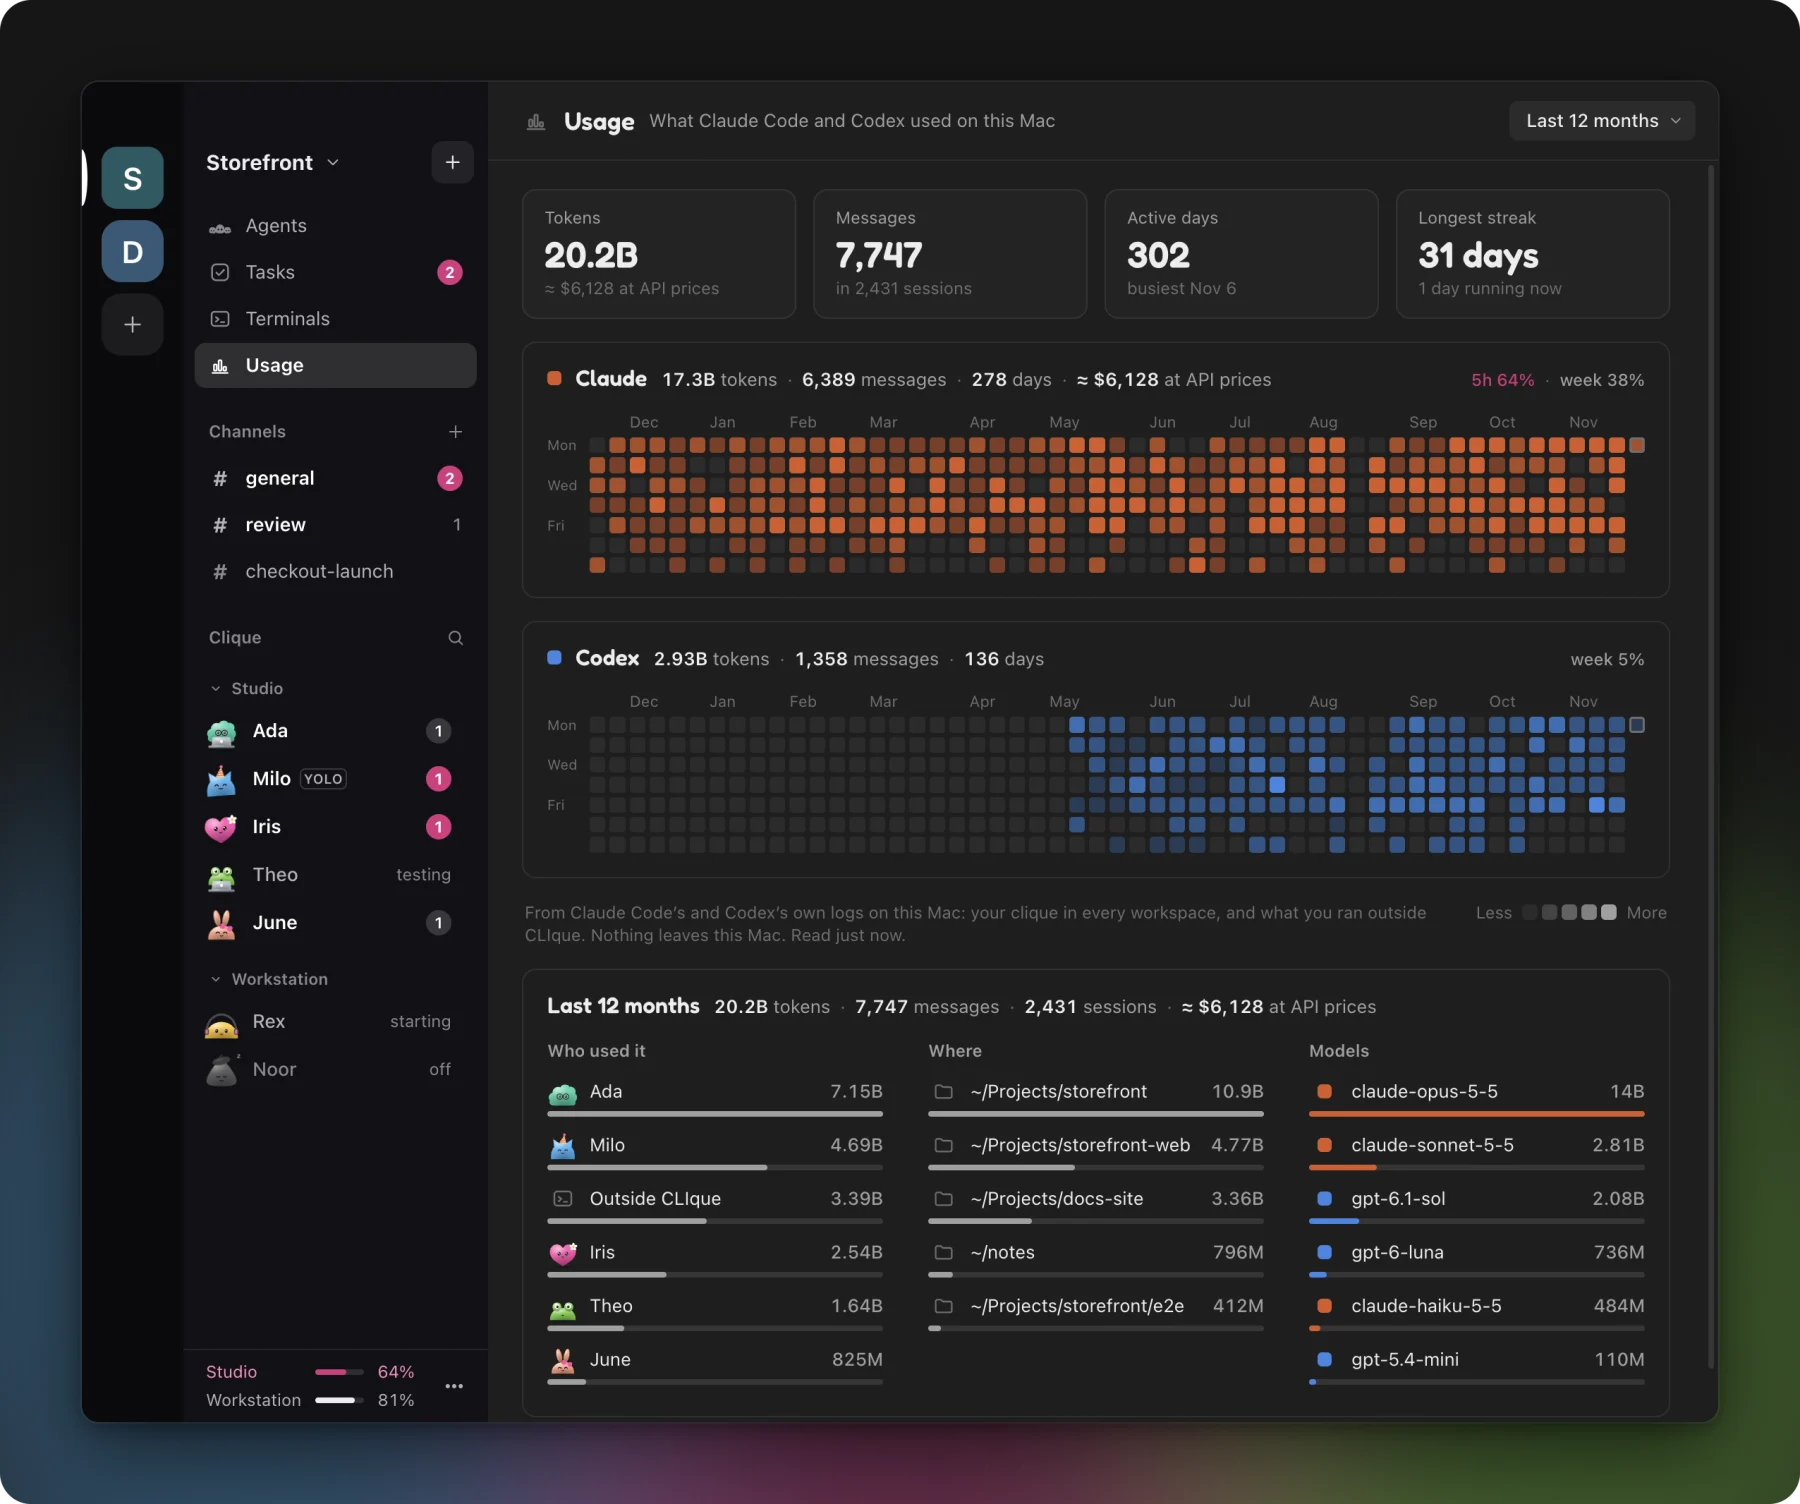
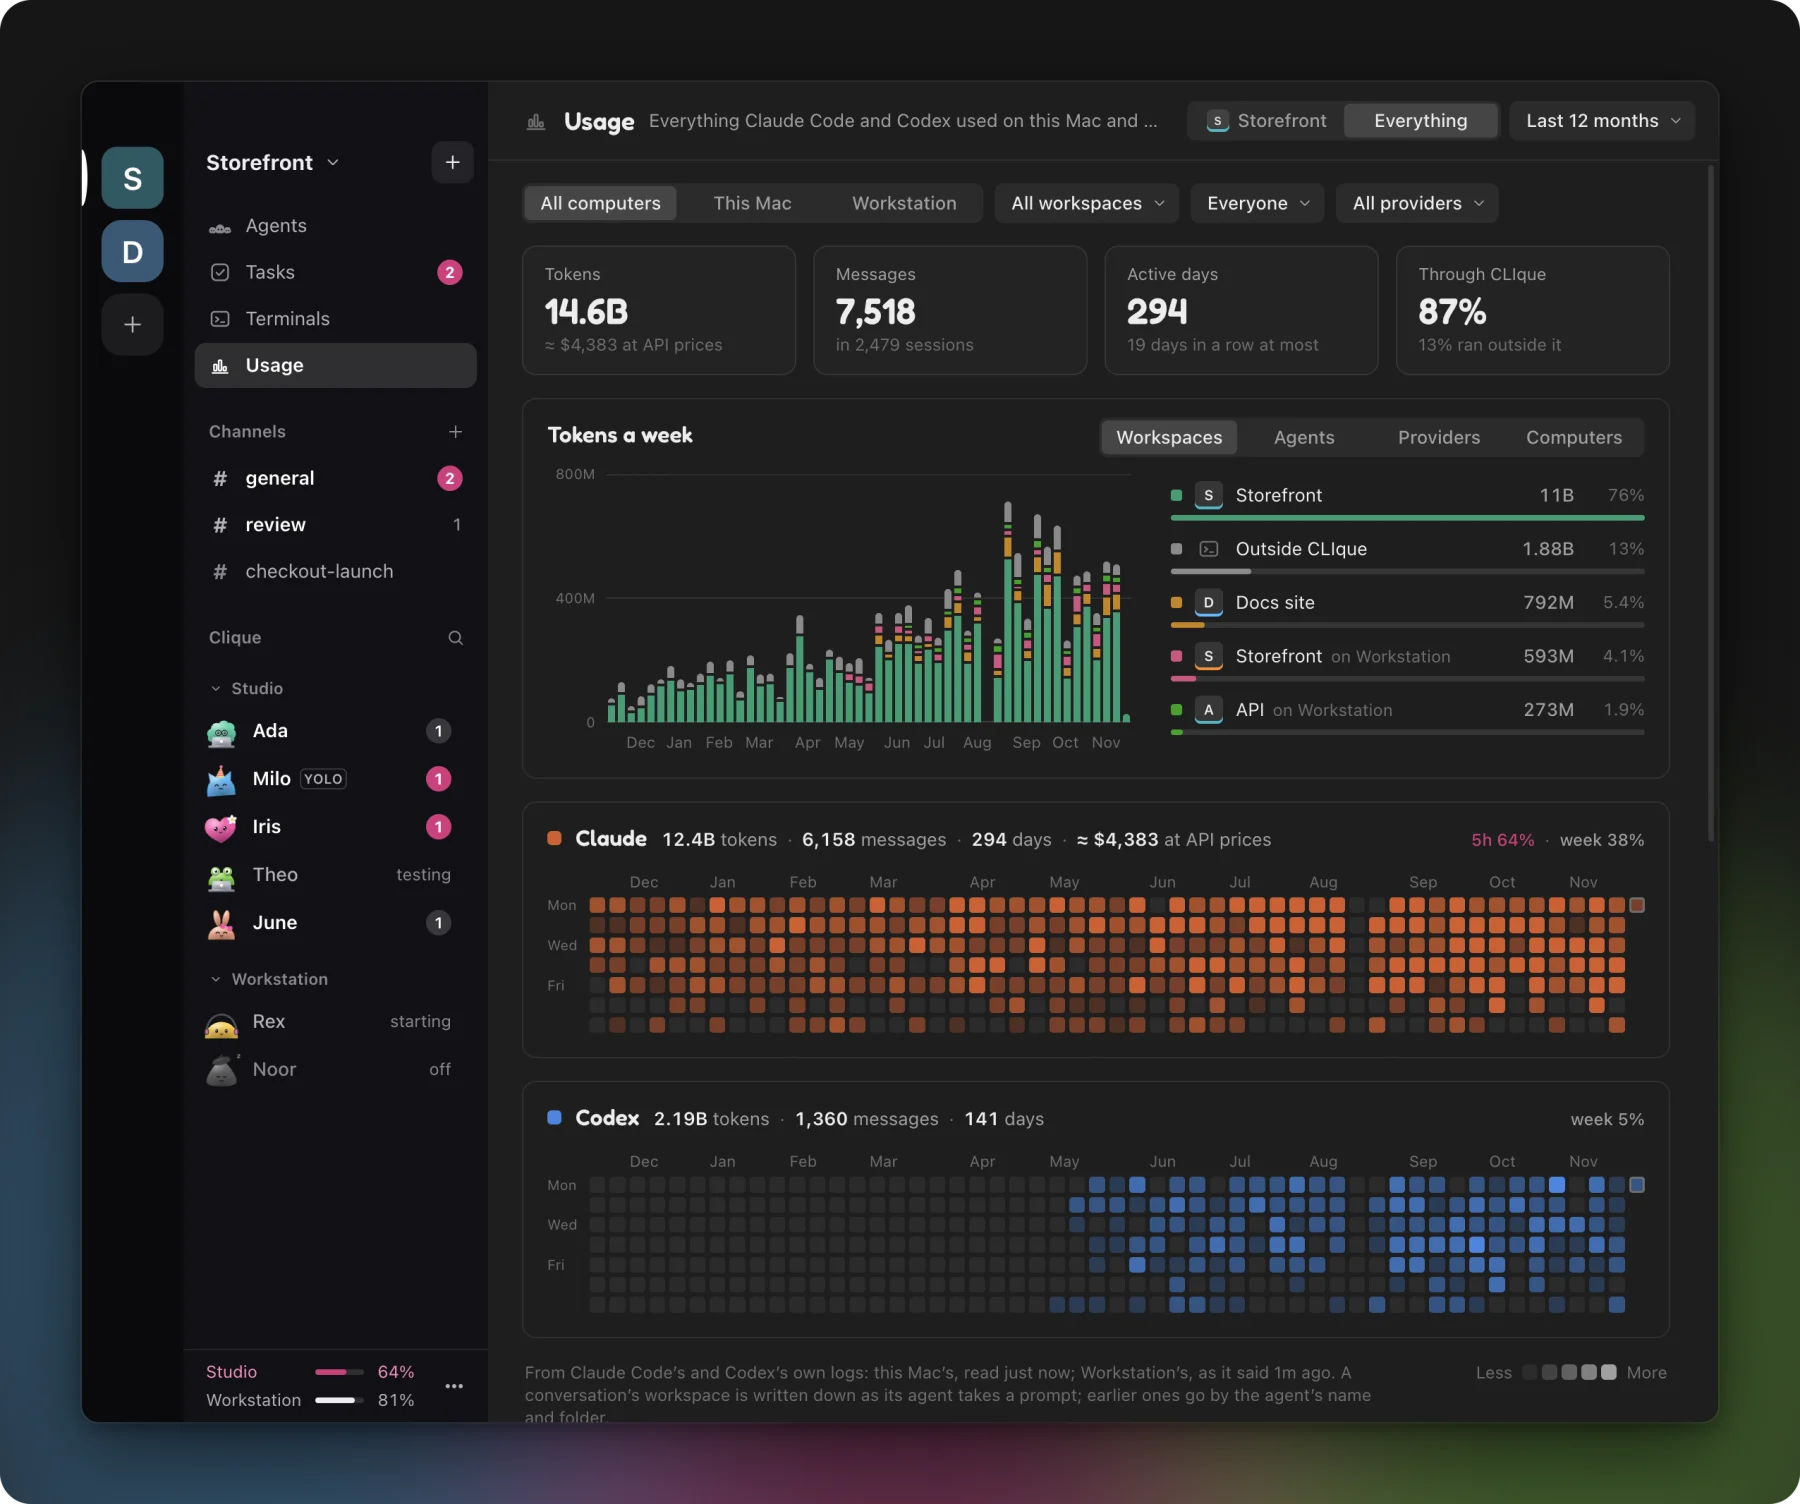
Usage: the guide and the README say how it works now; its picture and recording

diff --git a/desktop/ui/usage.js b/desktop/ui/usage.js
@@ -512,7 +512,7 @@ function mountUsage(root, { headIn = root }) {
     const done = reading?.total ? Math.min(100, Math.floor((reading.done / reading.total) * 100)) : 0
     const others = data.computers.filter((c) => !c.here)
     const where = filters.computer !== null ? computerName(filters.computer).replace(/^This/, 'this') : others.length ? `${THIS_COMPUTER} and ${others.length === 1 ? others[0].name : `${others.length} linked computers`}` : THIS_COMPUTER
-    headEl.querySelector('.ph-sub').textContent = busy ? `Reading Claude Code’s and Codex’s logs${reading.total ? ` · ${done}%` : '…'}` : here ? `What ${space?.name ?? state.workspace.name}’s agents used on ${where}` : `Everything Claude Code and Codex used on ${where}`
+    headEl.querySelector('.ph-sub').textContent = busy ? `Reading Claude Code’s and Codex’s logs${reading.total ? ` · ${done}%` : '…'}` : here ? `${space?.name ?? state.workspace.name}’s agents, on ${where}` : `Claude Code and Codex, on ${where}`
     if (rangeBtn.firstChild.nodeValue !== r.label) rangeBtn.firstChild.nodeValue = r.label
     rangeBtn.classList.toggle('hidden', empty)
     const hereBtn = scopeSeg.querySelector('[data-scope=here]')

diff --git a/desktop/ui/usage.css b/desktop/ui/usage.css
@@ -168,7 +168,7 @@
 
 /* ---- the lists: workspaces, agents, folders, models, computers; the whole range, or the day picked ---- */
 .us-detail .us-ph .btn { flex: none; align-self: center; }
-.us-cols { display: grid; grid-template-columns: repeat(auto-fit, minmax(228px, 1fr)); gap: 16px 28px; min-height: 172px; align-items: start; }
+.us-cols { display: grid; grid-template-columns: repeat(auto-fit, minmax(300px, 1fr)); gap: 16px 28px; min-height: 172px; align-items: start; }
 .us-cols.none { visibility: hidden; }
 .us-col { min-width: 0; }
 .us-col .section-label { margin-bottom: 4px; }
@@ -205,4 +205,4 @@ button.us-row .us-name, .us-row.key .us-name { display: flex; align-items: basel
 .us-tip .us-tip-rows b { min-width: 38px; font-size: 12px; text-align: right; }
 .us-key { flex: none; display: block; width: 10px; height: 3px; border-radius: 2px; }
 /* the header in a narrow window: its switch and its range stay whole, the line about them goes */
-@container (max-width: 760px) { .page-head[data-for=usage] .ph-sub { display: none; } }
+@container (max-width: 1000px) { .page-head[data-for=usage] .ph-sub { display: none; } }

diff --git a/docs/guide.md b/docs/guide.md
@@ -280,6 +280,17 @@ On a Claude subscription, CLIque shows how much of the account's 5-hour and week
 - **Linked computers.** An agent on a [linked computer](#computers-one-clique-across-your-computers) runs on that computer's accounts, so its sheet shows that computer's limits, and hovering them says which computer ("Claude account on Workstation"). Once a linked computer reports its own, the bottom of the sidebar shows a row per computer: its name, a bar and its fullest limit. Click it for every account on every computer. The menu bar lists each computer's accounts under its name. A computer that's offline keeps its last numbers, greyed, until each limit resets.
 - **Routing.** While a provider is at 90% or more of its 5-hour or weekly limit, a message or task CLIque routes for you goes to an agent on another provider when one covers the area just as well. It never sends work outside an agent's area because of a limit, and messages you address to an agent always go to it.
 
+### Usage
+
+**Usage** in the sidebar (⌘5) shows what Claude Code and Codex used, day by day. Each computer reads it from the CLIs' own logs, so it counts every workspace's agents and what you ran outside CLIque.
+
+- **Whose.** The switch in its header picks the workspace on screen (what its agents used) or **Everything** (every workspace, and what ran outside CLIque). It follows you from workspace to workspace.
+- **Where.** With [linked computers](#computers-one-clique-across-your-computers), the first filter picks all of them added up, this one, or another one. Each computer reads its own logs and answers when another one's Usage is open, so a workspace hosted elsewhere, or one with agents on two computers, shows all of it. A computer that's off shows what it last said. One on an older CLIque can't answer: update it.
+- **Filters.** Menus narrow to one workspace, agent or provider, and every row of a list is a filter too: click a workspace, an agent, a folder or a model to see only that, and again to let go.
+- **Tokens over time.** A bar a week (a day in the last 7 or 30 days), split by workspace, agent, provider or computer. The list beside it ranks them with their share.
+- **Calendars.** A square a day for each provider, darker for more tokens. Pick a day for who used it, where and on which models.
+- **Which workspace a conversation counts for.** CLIque writes each conversation down as its agent takes a prompt (`ran.json`), so an agent that works in several workspaces is counted in the right one. Conversations from before that go by the agent's name and folder; the few that can't be told show as "Workspace not recorded".
+
 ### What the work costs
 
 Claude Code reports what its session has cost so far (the figure `/cost` shows, at API prices or your organization's rates), the lines it changed and its time on the API. CLIque adds up what grows between reports, per agent and per task:
@@ -365,6 +376,7 @@ Everything CLIque keeps is in the `.clique` folder in your home folder (`~/.cliq
 
 - `config.json`: your agents, custom providers, theme and workspaces. The app writes it, you can edit it by hand in a text editor, and changes apply right away.
 - `sessions.json`: which conversation each agent resumes.
+- `ran.json`: every conversation the workspace's agents have had, by its id and the agent's name. [Usage](#usage) goes by it to count each conversation in its workspace.
 - `stats.json`: each agent's work experience (the day by day part for the last 60 days).
 - `tickets.json`: the Tasks board (every open task, and the last 200 done).
 - `conversations.json`: each agent's current conversation: when it started, tasks in it, compactions and how full it is.
@@ -372,10 +384,11 @@ Everything CLIque keeps is in the `.clique` folder in your home folder (`~/.cliq
 - `board.md`: the shared notes (`clique note`); the last 200 are kept.
 - `reads.json`: up to when you've read each agent's replies (the unread counts).
 - `usage.json`: each provider's usage limits as last reported, and which heads-ups you've had.
+- `history.json`: what Claude Code and Codex used each day, read from their own logs for [Usage](#usage). Only numbers, per day, model, folder and agent: no messages. It keeps the days of logs Claude Code has since cleaned up.
 - `savers.json`: what each [token saver](#token-savers) counted, day by day for the last 90 days, and the clique's spend under each mix of savers that was on.
 - `spend.json`: the last running totals each agent's CLI reported (so nothing is counted twice) and the clique's spend per hour of each day, for the last 60 days.
 - `attachments/`: images you've attached to messages, tasks and instructions. One that no chat, task or agent refers to any more is removed 60 days after you added it.
-- `link/`: Computers settings (this computer's name, sharing, linked computers, agents you chose not to use), the certificate and key, copies of images from agents on other computers (fetched again when needed, kept 30 days), and `phones.json`: the phones paired with this computer and the keys for them.
+- `link/`: Computers settings (this computer's name, sharing, linked computers, agents you chose not to use), the certificate and key, copies of images from agents on other computers (fetched again when needed, kept 30 days), what each linked computer last said it used (`usage/`, for [Usage](#usage) while it's off), and `phones.json`: the phones paired with this computer and the keys for them.
 - `token` and `url`: where CLIque is listening right now, and the token `clique` shows it from a terminal of your own. Both change every time CLIque starts.
 - `agent-secret`: what each agent's key is made from. It never goes into an agent's environment.
 - `run/`: the terminal host's connection (yours only) and its log, and for each running agent the commands it started, so what they leave running can be stopped when they end.

diff --git a/README.md b/README.md
@@ -175,13 +175,13 @@ Open **Computers** on two of your machines and they find each other. Click **Lin
 ### Spend less
 
 - **Usage limits** for your Claude and Codex accounts on every computer, with the pace they're heading at and a heads-up before you run out.
-- **Usage by day**: a calendar for each provider, a square a day, darker for more tokens. Pick a day to see which agents used it, in which folders and on which models. It's read from Claude Code's and Codex's own logs on your computer, so it covers what you ran outside CLIque too.
+- **Usage**, by the things you work with: the workspace you're in or everything, on this computer, a linked one or all of them added up. Tokens over time split by workspace, agent, provider or computer, a calendar of days for each provider, and who used it, where and on which models. Click any row to see only that. It's read from Claude Code's and Codex's own logs on each computer, so it covers what you ran outside CLIque too.
 - **What it costs**, per agent and per task.
 - **Token savers**: six switches that cut what a clique spends, such as starting fresh after a long break and showing agents only the notes they haven't read. Each one measures what it saved.
 
 <picture>
   <source media="(prefers-color-scheme: dark)" srcset="docs/images/usage-dark.webp">
-  <img src="docs/images/usage-light.webp" alt="Usage: a year of days for Claude and for Codex as calendars of squares, the totals above them, and under them which agents used it, in which folders and on which models" width="100%">
+  <img src="docs/images/usage-light.webp" alt="Usage, everything: the totals, tokens a week as bars split by workspace beside a ranked list of the workspaces and what ran outside CLIque, and a year of days for Claude as a calendar of squares" width="100%">
 </picture>
 
 ## How agents talk to each other
